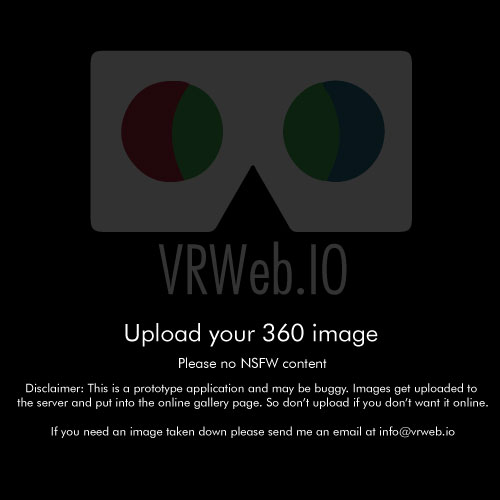
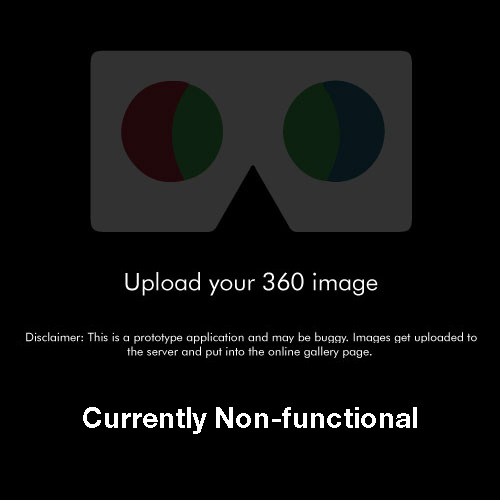
FixedPage and Image

Changed region(s): [[0.03, 0.63, 0.96, 0.87], [0.24, 0.48, 0.75, 0.6]]

diff --git a/VR/image360Upload/index.html b/VR/image360Upload/index.html
@@ -46,6 +46,7 @@
 <body>
     <div id="top-image"></div>
     <div id="top-image2"></div>
+<!--
     <nav id="myNavmenu" class="navmenu navmenu-default navmenu-fixed-right offcanvas" role="navigation">
         <a class="navmenu-brand" href="../index.html">VRWeb.IO</a>
         <ul class="nav navmenu-nav">
@@ -54,13 +55,16 @@
             <li><a href="http://www.vrweb.io/About">About VRWeb.IO</a></li>
         </ul>
     </nav>
+-->
     <div class="navbar navbar-default navbar-fixed-top col-md-12">
         <button type="button" class="navbar-toggle" data-toggle="offcanvas" data-target="#myNavmenu" data-canvas="body">
+<!--
             <span class="icon-bar"></span>
             <span class="icon-bar"></span>
             <span class="icon-bar"></span>
+-->
         </button>
-        <img src="VRButtons.png" class="center-block iconTop">
+        <a href="https://www.eddiebarkman.com"><img src="VRButtons.png" class="center-block iconTop"></a>
     </div>
 
 
@@ -90,8 +94,8 @@
 
         </div>
 
-
-        <div class="panel-footer footerCustomize text-center"> This is merely a prototype web application. Please note that any images uploaded will be public on this server until they are erased. Please do not upload anything illegal or NSFW.</div>
+<br>
+        <div class="panel-footer footerCustomize text-center"> This is merely a Prototype/Proof of Concept web application. Please note that any images uploaded will be public on this server until they are erased.</div>
 
     </div>
 
